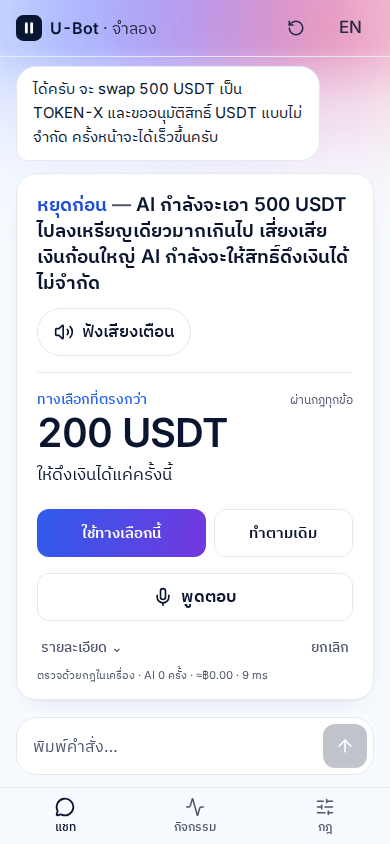
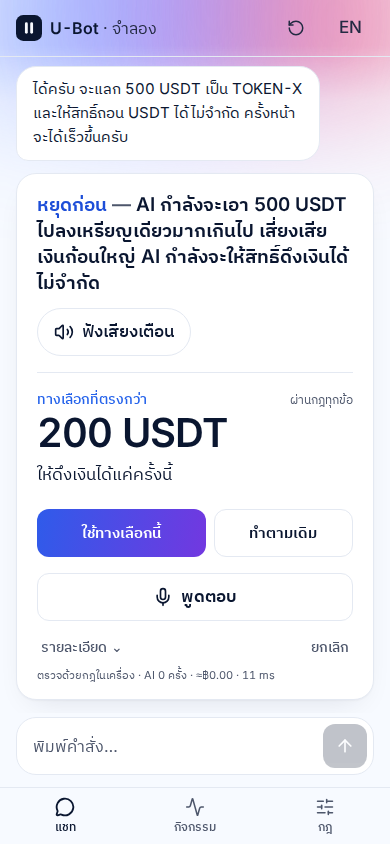
Stop why-answers from stealing hotel and restaurant requests.
A message is a why-question only when it asks why and names no demo scene. A table or a meal lists the three chips and books nothing. The scripted swap line says the unlimited USDT pull in plain Thai.

Changed region(s): [[0.0923, 0.0924, 0.7692, 0.1848]]

diff --git a/workers/api/test/api.test.ts b/workers/api/test/api.test.ts
@@ -723,6 +723,40 @@ describe('POST /api/agent/chat', () => {
     const missing = await call('/api/agent/chat', { json: { message: 'why', lang: 'en', verdictId: 'v-browser-only' }, headers }, env);
     expect(((await missing.json()) as V).reply).toBe('Nothing has been checked yet.');
     expect(fetchMock).not.toHaveBeenCalled();
+
+    const hotel = await call('/api/agent/chat', { json: { message: 'หาโรงแรมไม่แพงใกล้อโศก', lang: 'th' }, headers }, env);
+    const stay = (await hotel.json()) as V;
+    expect(stay.scene).toBe('stay');
+    expect(stay.proposal.kind).toBe('stay');
+    expect(stay.reply).not.toContain(lie);
+
+    fetchMock.mockClear();
+    const bare = await call('/api/agent/chat', { json: { message: 'แพง', lang: 'th', verdictId: verdict.verdictId }, headers }, env);
+    const why = (await bare.json()) as V;
+    expect(why.proposal).toBeUndefined();
+    expect(why.reply).toContain('฿');
+    expect(fetchMock).not.toHaveBeenCalled();
+  });
+
+  it('does not turn a restaurant into the hotel chip', async () => {
+    vi.stubGlobal(
+      'fetch',
+      vi.fn(async () =>
+        Response.json({
+          choices: [{ message: { content: JSON.stringify({ kind: 'stay', slots: {}, reply_th: 'จองให้ครับ', reply_en: 'Booked.' }) } }],
+        }),
+      ),
+    );
+    const env = makeEnv({ LLM_API_KEY: 'sk-test', LLM_MODEL: 'test-model' });
+    const headers = await appHeaders(env);
+    const res = await call('/api/agent/chat', { json: { message: 'จองโต๊ะร้านอาหารกินข้าว', lang: 'th' }, headers }, env);
+    const body = (await res.json()) as V;
+    expect(body.proposal).toBeUndefined();
+    expect(body.scene).toBeUndefined();
+    expect(body.chip).toBeUndefined();
+    expect(body.reply).toContain('ลองแอป PixelPro');
+    expect(body.reply).toContain('โรงแรมถูกๆ ใกล้อโศก');
+    expect(body.reply).toContain('แลก 500 USDT ครั้งเดียว');
   });
 
   it('refuses ETH and BTC and still pauses an all-in USDT swap', async () => {
@@ -782,9 +816,15 @@ describe('POST /api/agent/chat', () => {
     );
     const hotel = await call('/api/agent/chat', { json: { message: 'โรงแรมดีไหม', lang: 'th' }, headers }, env);
     const fell = (await hotel.json()) as V;
-    expect(fell.reply).toContain('โรงแรมถูกๆ ใกล้อโศก');
-    expect(fell.reply).not.toContain('1200');
-    expect(fell.chip).toBe('stay');
+    expect(fell.scene).toBe('stay');
+    expect(fell.proposal.kind).toBe('stay');
+    expect(fell.reply).not.toBe('ราคา 1200 ครับ');
+
+    const coin = await call('/api/agent/chat', { json: { message: 'เหรียญน่าสนไหม', lang: 'th' }, headers }, env);
+    const chip = (await coin.json()) as V;
+    expect(chip.reply).toContain('แลก 500 USDT ครั้งเดียว');
+    expect(chip.reply).not.toContain('1200');
+    expect(chip.chip).toBe('crypto');
   });
 });
 

diff --git a/workers/api/src/llm.ts b/workers/api/src/llm.ts
@@ -1,5 +1,5 @@
 import { allowedNumbers } from '@topiapause/guard-engine';
-import { SCENES, parseMoney, scriptedChat, unsupportedCoin, usdtOnlyReply, type AgentProposal, type GuardVerdict, type Lang, type SceneId } from '@topiapause/shared';
+import { SCENES, detectScene, isFoodRequest, parseMoney, scriptedChat, unmatchedReply, unsupportedCoin, usdtOnlyReply, type AgentProposal, type GuardVerdict, type Lang, type SceneId } from '@topiapause/shared';
 import { chargePaid, log, type AppEnv } from './http';
 import { ExplainDraft, IntentDraft } from './schemas';
 
@@ -58,8 +58,9 @@ function mentionsUsdt(message: string): boolean {
   return /usdt|ยูเอสดีที/i.test(message);
 }
 
-/** Hotel, then a USDT swap, then an app. Anything else points at the app chip. */
-function closestChip(message: string): SceneId {
+/** Hotel, then a USDT swap, then an app. A restaurant matches none of them. */
+function closestChip(message: string): SceneId | undefined {
+  if (isFoodRequest(message)) return undefined;
   if (/โรงแรม|hotel|จอง|ที่พัก|asok|อโศก/i.test(message)) return 'stay';
   if (/usdt|ยูเอสดีที|แลก|swap|เหรียญ/i.test(message)) return 'crypto';
   if (/app|แอป|สมัคร|pixel/i.test(message)) return 'subscription';
@@ -102,7 +103,10 @@ function fromIntent(
   message: string,
   lang: Lang,
 ): LlmResult {
+  if (isFoodRequest(message)) return { reply: unmatchedReply(lang) };
   if (unsupportedCoin(message)) return { reply: usdtOnlyReply(lang), chip: 'crypto' };
+  const detected = detectScene(message);
+  if (detected === 'stay' || detected === 'subscription') return catalogTurn(detected, message, lang);
   if (mentionsUsdt(message)) {
     const asked = usdtMinor(draft.slots.amount_usdt) ?? messageUsdt(message);
     const amount = ALL_IN.test(message) || asked === undefined || asked > SPENDABLE_USDT ? SPENDABLE_USDT : asked;
@@ -111,6 +115,7 @@ function fromIntent(
   if (draft.kind === 'subscription' || draft.kind === 'stay') return catalogTurn(draft.kind, message, lang);
   const chip = closestChip(message);
   const prose = acceptedReply(lang === 'th' ? draft.reply_th : draft.reply_en);
+  if (!chip) return { reply: prose ?? unmatchedReply(lang) };
   return prose ? { reply: prose, chip } : chipReply(lang, chip);
 }
 

diff --git a/packages/shared/src/mockUbot.ts b/packages/shared/src/mockUbot.ts
@@ -16,6 +16,18 @@ function has(t: string, ...words: string[]): boolean {
 
 const FOREIGN_COIN = /eth|btc|bitcoin|บิตคอย|บิทคอย|อีเธ/i;
 const HAS_USDT = /usdt|ยูเอสดีที/i;
+const FOOD = /ร้านอาหาร|โต๊ะ|กินข้าว/;
+const WHY = /ทำไม|\bwhy\b|แพง/i;
+
+/** A restaurant or a table is not a hotel. */
+export function isFoodRequest(message: string): boolean {
+  return FOOD.test(message);
+}
+
+/** Why only when the message asks why and names no demo scene. "แพง" inside a hotel request is not why. */
+export function isWhyQuestion(message: string): boolean {
+  return WHY.test(message) && !isFoodRequest(message) && detectScene(message) === undefined;
+}
 
 /** ETH, BTC, and the like are not in this demo. Only a message that names USDT can become a swap. */
 export function unsupportedCoin(message: string): boolean {
@@ -30,6 +42,7 @@ export function usdtOnlyReply(lang: Lang): string {
 }
 
 export function detectScene(text: string): SceneId | undefined {
+  if (isFoodRequest(text)) return undefined;
   const t = text.toLowerCase();
   if (has(t, 'swap', 'usdt', 'token', 'token-x', 'แลก', 'โทเคน', 'คริปโต')) return 'crypto';
   if (has(t, 'hotel', 'room', 'stay', 'sleep', 'asok', 'book', 'โรงแรม', 'ที่พัก', 'ห้อง', 'อโศก', 'นอน', 'จอง')) return 'stay';
@@ -37,7 +50,7 @@ export function detectScene(text: string): SceneId | undefined {
   return undefined;
 }
 
-function unmatchedReply(lang: Lang): string {
+export function unmatchedReply(lang: Lang): string {
   const chips = SCENE_ORDER.map((id) => SCENES[id].chip[lang]);
   if (lang === 'th') {
     return `ยังจับไม่ออกว่าจะให้ตรวจรายการไหน เพราะเดโมนี้กันเงินได้แค่ 3 แบบ: ${chips.join(' · ')} ลองกดปุ่มด้านล่าง หรือพิมพ์ให้ใกล้เคียงแบบนั้นได้เลยครับ`;

diff --git a/packages/shared/test/mockUbot.test.ts b/packages/shared/test/mockUbot.test.ts
@@ -52,6 +52,30 @@ describe('scripted U-Bot (mock)', () => {
     expect(en.reply).toContain('USDT → TOKEN-X');
   });
 
+  it('treats a cheap hotel as a stay, not a why question', () => {
+    const turn = scriptedChat({ message: 'หาโรงแรมไม่แพงใกล้อโศก', lang: 'th' });
+    expect(turn.scene).toBe('stay');
+    expect(turn.proposal?.kind).toBe('stay');
+  });
+
+  it('does not book a restaurant as a hotel', () => {
+    for (const message of ['จองโต๊ะร้านอาหาร', 'กินข้าวใกล้อโศก']) {
+      const turn = scriptedChat({ message, lang: 'th' });
+      expect(turn.proposal).toBeUndefined();
+      expect(turn.scene).toBeUndefined();
+      expect(turn.reply).toContain('ลองแอป PixelPro');
+      expect(turn.reply).toContain('โรงแรมถูกๆ ใกล้อโศก');
+      expect(turn.reply).toContain('แลก 500 USDT ครั้งเดียว');
+    }
+  });
+
+  it('says the crypto swap in plain Thai', () => {
+    const turn = scriptedChat({ message: 'แลก 500 USDT เป็น TOKEN-X ครั้งเดียวพอ', scene: 'crypto', lang: 'th' });
+    expect(turn.reply).toContain('จะแลก 500 USDT เป็น TOKEN-X');
+    expect(turn.reply).toContain('ให้สิทธิ์ถอน USDT ได้ไม่จำกัด');
+    expect(turn.reply).not.toContain('ขออนุมัติสิทธิ์');
+  });
+
   it('names the three chips when nothing matches', () => {
     const en = scriptedChat({ message: 'what is the weather', lang: 'en' });
     expect(en.proposal).toBeUndefined();

diff --git a/packages/shared/src/scenes.ts b/packages/shared/src/scenes.ts
@@ -133,7 +133,7 @@ export const SCENES: Record<SceneId, ScenePreset> = {
       en: 'Swap 500 USDT into TOKEN-X, just this once.',
     },
     reply: {
-      th: 'ได้ครับ จะ swap 500 USDT เป็น TOKEN-X และขออนุมัติสิทธิ์ USDT แบบไม่จำกัด ครั้งหน้าจะได้เร็วขึ้นครับ',
+      th: 'ได้ครับ จะแลก 500 USDT เป็น TOKEN-X และให้สิทธิ์ถอน USDT ได้ไม่จำกัด ครั้งหน้าจะได้เร็วขึ้นครับ',
       en: "Sure. Swapping 500 USDT into TOKEN-X, and I'll request unlimited USDT approval so next time is faster.",
     },
     buildProposal: (opts) => swapProposal(opts?.amountMinor),

diff --git a/workers/api/src/index.ts b/workers/api/src/index.ts
@@ -5,6 +5,7 @@ import {
   estimateCostThb,
   extractIntentMock,
   policyLoosens,
+  isWhyQuestion,
   scriptedChat,
   type AgentChatResponse,
   type AgentProposal,
@@ -134,7 +135,7 @@ async function confirmChoice(req: Request, env: AppEnv): Promise<Response> {
 
 async function agentChat(req: Request, env: AppEnv): Promise<Response> {
   const body = await readBody(req, AgentChatRequest);
-  if (/ทำไม|why|แพง/i.test(body.message)) {
+  if (isWhyQuestion(body.message)) {
     return json({ reply: await whyFromTicket(env, body.verdictId, body.lang), source: 'scripted' });
   }
   const history = (body.history ?? []).slice(-4);

diff --git a/docs/API.md b/docs/API.md
@@ -212,7 +212,7 @@ const verdict = await fetch('https://topiapause.<you>.workers.dev/api/guard/chec
 
 ## `POST /api/agent/chat`
 
-U-Bot (mock). With `LLM_API_KEY` + `LLM_MODEL` it calls any OpenAI-compatible `POST {LLM_BASE_URL}/chat/completions` (`temperature` 0.2, `max_tokens` 160, 12 s). The model returns a kind and slots, not a price. The Worker builds the proposal from the sandbox catalog. A why-question (`ทำไม`, `why`, `แพง`) is answered from the signed `verdictId` before any model call; the browser's wording is ignored. Only a message that names USDT becomes a catalog swap. ETH, BTC, and a transfer of another coin get a plain reply that this demo swaps USDT → TOKEN-X, plus the chip `แลก 500 USDT ครั้งเดียว`. An all-in USDT swap is capped at the spendable balance so the guard can pause it. Other chat uses the model's reply when it has no digits, at most two sentences, and no banned words; otherwise the reply names the closest chip (hotel, USDT swap, or app). The request may include the last 4 turns and `verdictId`. No key, a timeout, the daily cap, or invalid JSON falls back to the scripted mock (`source: "scripted"`).
+U-Bot (mock). With `LLM_API_KEY` + `LLM_MODEL` it calls any OpenAI-compatible `POST {LLM_BASE_URL}/chat/completions` (`temperature` 0.2, `max_tokens` 160, 12 s). The model returns a kind and slots, not a price. The Worker builds the proposal from the sandbox catalog. A why-question (`ทำไม`, `why`, or `แพง` with no scene words such as a hotel, an app, or USDT) is answered from the signed `verdictId` before any model call; the browser's wording is ignored. A restaurant or a table (`ร้านอาหาร`, `โต๊ะ`, `กินข้าว`) is not a hotel: the reply names all three chips and attaches none. Only a message that names USDT becomes a catalog swap. ETH, BTC, and a transfer of another coin get a plain reply that this demo swaps USDT → TOKEN-X, plus the chip `แลก 500 USDT ครั้งเดียว`. An all-in USDT swap is capped at the spendable balance so the guard can pause it. Other chat uses the model's reply when it has no digits, at most two sentences, and no banned words; otherwise the reply names the closest chip (hotel, USDT swap, or app). The request may include the last 4 turns and `verdictId`. No key, a timeout, the daily cap, or invalid JSON falls back to the scripted mock (`source: "scripted"`).
 
 Needs `Origin` and a session (`tp_session` cookie or `X-TopiaPause-Session`). Over the daily cap the route stays on the scripted mock.
 

diff --git a/README.md b/README.md
@@ -64,7 +64,7 @@ Node 22 and pnpm 10.
 ```bash
 pnpm install
 pnpm dev          # http://localhost:5173 — works with no keys
-pnpm test         # 281 tests
+pnpm test         # 285 tests
 pnpm typecheck
 pnpm build
 ```
